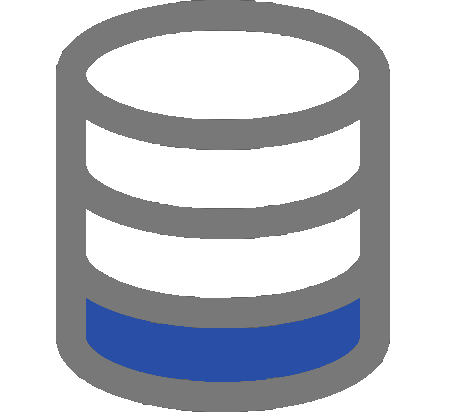
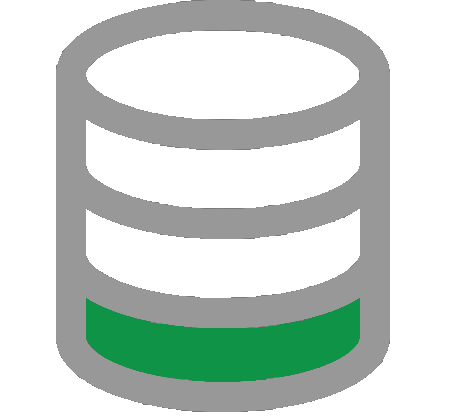
changed difficluty textures, upgraded SQL Shop-page

diff --git a/front-end/shop.html b/front-end/shop.html
@@ -2,127 +2,182 @@
 <html lang="ro">
 
 <head>
-    <title> SQL-Games</title>
+  <title> SQL-Games</title>
 
-    <meta name="viewport" content="width=device-width, initial-scale=1.0">
-    <meta http-equiv="X-UA-Compatible" content="IE=edge">
-    <meta content="text/html;charset=utf-8" http-equiv="Content-Type">
+  <meta name="viewport" content="width=device-width, initial-scale=1.0">
+  <meta http-equiv="X-UA-Compatible" content="IE=edge">
+  <meta content="text/html;charset=utf-8" http-equiv="Content-Type">
 
-    <link rel="stylesheet" href="styles/content_style.css" />
-    <link rel="stylesheet" href="styles/navbar.css" />
-    <link rel="stylesheet" href="styles/footer.css" />
-    <link rel="stylesheet" href="styles/shop_style.css" />
-    <script src="scripts/navFunctions.js"></script>
-    
-    <link rel="shortcut icon" type="image/png" href="resources/favicon-32x32.png" />
+  <link rel="stylesheet" href="styles/content_style.css" />
+  <link rel="stylesheet" href="styles/navbar.css" />
+  <link rel="stylesheet" href="styles/footer.css" />
+  <link rel="stylesheet" href="styles/shop_style.css" />
+  <script src="scripts/navFunctions.js"></script>
+
+  <link rel="shortcut icon" type="image/png" href="resources/favicon-32x32.png" />
 
 </head>
 
 <body>
-    <header>
-        <div class="left-side">
-            <div class="logo">
-                <a href="main_page.html">SQL-GAMES</a>
-            </div>
-        </div>
-        <nav class="right-nav">
-            <a class="coins">10<img src="resources/coin.png" class="coin-img" alt="sqliezi" /></a>
-            <a class="coins-collapsed">Coins : 10<img src="resources/coin.png" class="coin-img"
-                    alt="sqliezi" /></a>
-            <a href="shop.html">Exercises</a>
-            <a href="login_register.html">Login/Register</a>
-            <div class="dropdown">
-                <p class="dropbtn">Account</p>
-                <div class="dropdown-content">
-                    <a href="profile_settings.html">Profile Settings</a>
-                    <a href="#">Statistics</a>
-                    <a href="#">Log out</a>
-                </div>
-            </div>
-        </nav>
-        <div class="toggle-btn" onclick="displayOptions()">
-            <span></span>
-            <span></span>
-            <span></span>
-        </div>
-
-    </header>
-
-    
-    <div class="content-area" id="content-id">
-
-      <div class="title-area">
-        <h1>SQL Exercises SHOP</h1> 
+  <header>
+    <div class="left-side">
+      <div class="logo">
+        <a href="main_page.html">SQL-GAMES</a>
       </div>
-    
-        <section class="exercise-requirement">
-            <div class="requirements">
-              <div class="meta-info">
-                <div class="difficulty-wrapper">
-                  <p class="difficulty-title">Difficulty:</p>
-                  <div class="difficulty-bar">
-                    <div class="difficulty">
-                      <img src="resources/difficulty_easy.png" alt="difficulty">
-                    </div>
-                  </div>
-                </div>
-                <h3 class="exercise-author">by Nume_Imaginar</h3>
-              </div>
-              <br class="meta-break">
-              <h1 class="exercise-title">#001 Nascuti in aceeasi zi</h1>
-              <p class="requirement-text">
-                Sa se afiseze toti studentii care au un coleg de grupa nascut in
-                aceeasi zi a saptamanii cu el si au nume de familie care incep cu
-                aceeasi litera.
-              </p>
-            </div>
-          </section>
-
-          <section class="exercise-requirement">
-            <div class="requirements">
-              <div class="meta-info">
-                <div class="difficulty-wrapper">
-                  <p class="difficulty-title">Difficulty:</p>
-                  <div class="difficulty-bar">
-                    <div class="difficulty">
-                    </div>
-                  </div>
-                </div>
-                <h3 class="exercise-author">by Nume_Inchipuit</h3>
-              </div>
-              <br class="meta-break">
-              <h1 class="exercise-title">#002 Prieteni</h1>
-              <p class="requirement-text">
-                Sa se afiseze toti prietenii studentilor.
-              </p>
-            </div>
-          </section>
-
-          <section class="exercise-requirement">
-            <div class="requirements">
-              <div class="meta-info">
-                <div class="difficulty-wrapper">
-                  <p class="difficulty-title">Difficulty:</p>
-                  <div class="difficulty-bar">
-                    <div class="difficulty"></div>
-                  </div>
-                </div>
-                <h3 class="exercise-author">by Nume_Inexistent</h3>
-              </div>
-              <br class="meta-break">
-              <h1 class="exercise-title">#003 Profi</h1>
-              <p class="requirement-text">
-                Sa se afiseze toti profesorii buni.
-              </p>
-            </div>
-          </section>
-
-
-        <footer class="footer-bar">
-            <a href="#">Contact us</a>
-            <a href="scholarlyhtml.html">Scholarly HTML</a>
-            <h4>© SQL-GAMES 2021 Buliga Eugeniu, Todirisca Cezar, Toma Andrei</h4>
-        </footer>
     </div>
+    <nav class="right-nav">
+      <a class="coins">10<img src="resources/coin.png" class="coin-img" alt="sqliezi" /></a>
+      <a class="coins-collapsed">Coins : 10<img src="resources/coin.png" class="coin-img" alt="sqliezi" /></a>
+      <a href="shop.html">Exercises</a>
+      <a href="login_register.html">Login/Register</a>
+      <div class="dropdown">
+        <p class="dropbtn">Account</p>
+        <div class="dropdown-content">
+          <a href="profile_settings.html">Profile Settings</a>
+          <a href="#">Statistics</a>
+          <a href="#">Log out</a>
+        </div>
+      </div>
+    </nav>
+    <div class="toggle-btn" onclick="displayOptions()">
+      <span></span>
+      <span></span>
+      <span></span>
+    </div>
+
+  </header>
+
+
+  <div class="content-area" id="content-id">
+
+    <section class="shop-header">
+      <div class="title-area">
+        <h1>SQL Exercises SHOP</h1>
+      </div>
+    </section>
+
+    <section class="shop-manager">
+
+      <div class="shop-search">
+        <form>
+          <label for="fsearch">Search:</label>
+          <input type="text">
+        </form>
+      </div>
+
+
+      <div class="shop-filter">
+
+        <div class="shop-filter-sort">
+          <div class="shop-filter-text">
+            <p>Difficulty:</p>
+          </div>
+          <div class="shop-filter-difficulty-select">
+            <form>
+              <p><select size="1" name="D1">
+                  <option>Easy</option>
+                  <option>Medium</option>
+                  <option>Hard</option>
+                </select></p>
+            </form>
+          </div>
+        </div>
+
+        <div class="shop-filter-sort">
+          <div class="shop-filter-text">
+            <p>Sort:</p>
+          </div>
+          <div class="shop-filter-text-select">
+            <form>
+              <p><select size="1" name="D1">
+                  <option>Popular</option>
+                  <option>New</option>
+                  <option>Solved</option>
+                  <option>Locked</option>
+                  <option>Unlocked</option>
+                </select></p>
+            </form>
+          </div>
+        </div>
+
+        <div class="shop-filter-sort">
+          <div class="shop-filter-text">
+            <p>Layout:</p>
+          </div>
+          <div class="shop-filter-layout">
+            <form>
+              <input type="submit" value="Compact">
+              <input type="submit" value="Extended">
+            </form>
+          </div>
+
+
+        </div>
+      </div>
+
+    </section>
+
+    <section class="shop-shelf">
+      <section class="exercise-requirement">
+        <div class="requirements">
+          <div class="meta-info">
+            <div class="difficulty-wrapper">
+              <p class="difficulty-title">Difficulty:</p>
+              <img src="resources/difficulty_easy.png" class="difficulty-bar">
+            </div>
+            <h3 class="exercise-author">by Nume_Imaginar</h3>
+          </div>
+          <br class="meta-break">
+          <h1 class="exercise-title">#001 Nascuti in aceeasi zi</h1>
+          <p class="requirement-text">
+            Sa se afiseze toti studentii care au un coleg de grupa nascut in
+            aceeasi zi a saptamanii cu el si au nume de familie care incep cu
+            aceeasi litera.
+          </p>
+        </div>
+      </section>
+
+      <section class="exercise-requirement">
+        <div class="requirements">
+          <div class="meta-info">
+            <div class="difficulty-wrapper">
+              <p class="difficulty-title">Difficulty:</p>
+              <img src="resources/difficulty_medium.png" class="difficulty-bar">
+            </div>
+            <h3 class="exercise-author">by Nume_Inchipuit</h3>
+          </div>
+          <br class="meta-break">
+          <h1 class="exercise-title">#002 Prieteni</h1>
+          <p class="requirement-text">
+            Sa se afiseze toti prietenii studentilor.
+          </p>
+        </div>
+      </section>
+
+      <section class="exercise-requirement">
+        <div class="requirements">
+          <div class="meta-info">
+            <div class="difficulty-wrapper">
+              <p class="difficulty-title">Difficulty:</p>
+              <img src="resources/difficulty_hard.png" class="difficulty-bar">
+            </div>
+            <h3 class="exercise-author">by Nume_Inexistent</h3>
+          </div>
+          <br class="meta-break">
+          <h1 class="exercise-title">#003 Profi</h1>
+          <p class="requirement-text">
+            Sa se afiseze toti profesorii buni.
+          </p>
+        </div>
+      </section>
+
+    </section>
+
+    <footer class="footer-bar">
+      <a href="#">Contact us</a>
+      <a href="scholarlyhtml.html">Scholarly HTML</a>
+      <h4>© SQL-GAMES 2021 Buliga Eugeniu, Todirisca Cezar, Toma Andrei</h4>
+    </footer>
+  </div>
 
 </body>

diff --git a/front-end/styles/shop_style.css b/front-end/styles/shop_style.css
@@ -27,13 +27,68 @@ body{
     flex-direction: column;
 	align-items: center;
 	justify-content: center;
+}
+
+.shop-header{
     padding-top: 50px;
 }
 
 .title-area{
     font-family: bebas;
-    font-size:60px;
-    
+    font-size:40px;
+}
+
+.shop-manager{
+    font-family: montserrat-regular;
+    padding: 10px;
+    height: 30px;
+    width: 920px;
+    display: flex;
+    justify-content: space-between;
+
+    border-top: 2px solid #d3d6d8;
+    border-bottom: 2px solid #d3d6d8;
+}
+
+.shop-filter{
+    display: flex;
+    flex-direction: row;
+    justify-content: space-between;
+    width:50%;
+    flex-wrap: nowrap;
+}
+
+.shop-filter-sort{
+    display: flex;
+    flex-direction: row;
+    justify-content: space-between;
+    flex-wrap: nowrap;
+}
+
+
+.shop-filter p{
+    margin: 1px;
+    padding: 2px;
+}
+
+
+.shop-filter-layout form{
+    display: flex;
+    justify-content: space-between;
+    flex-direction: column;
+}
+
+.shop-filter-layout input{
+    width:80px;
+    height:15px;
+    font-size: 10px;
+}
+
+
+.shop-shelf{
+    padding-top:1px;
+    padding-left: 60px;
+    padding-right: 60px;
 }
 
 .exercise-requirement{
@@ -98,6 +153,7 @@ body{
     display:flex;
     align-items: center;
     margin-left:10px;
+    width: 40px;
 }
 
 .difficulty{
